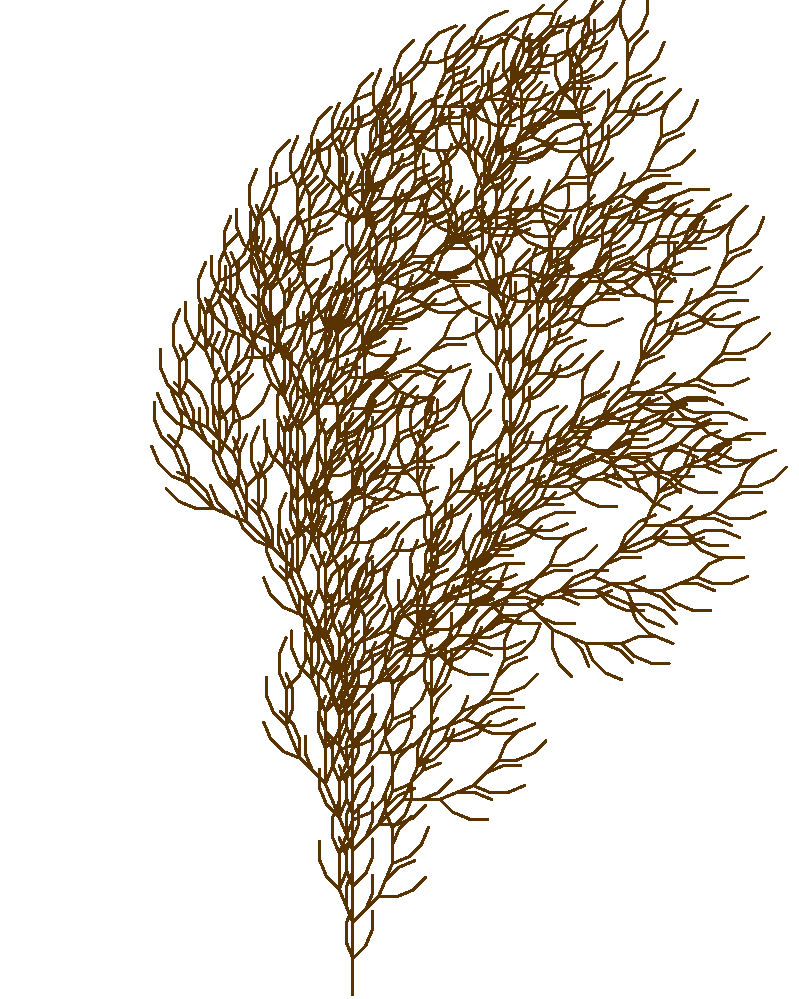
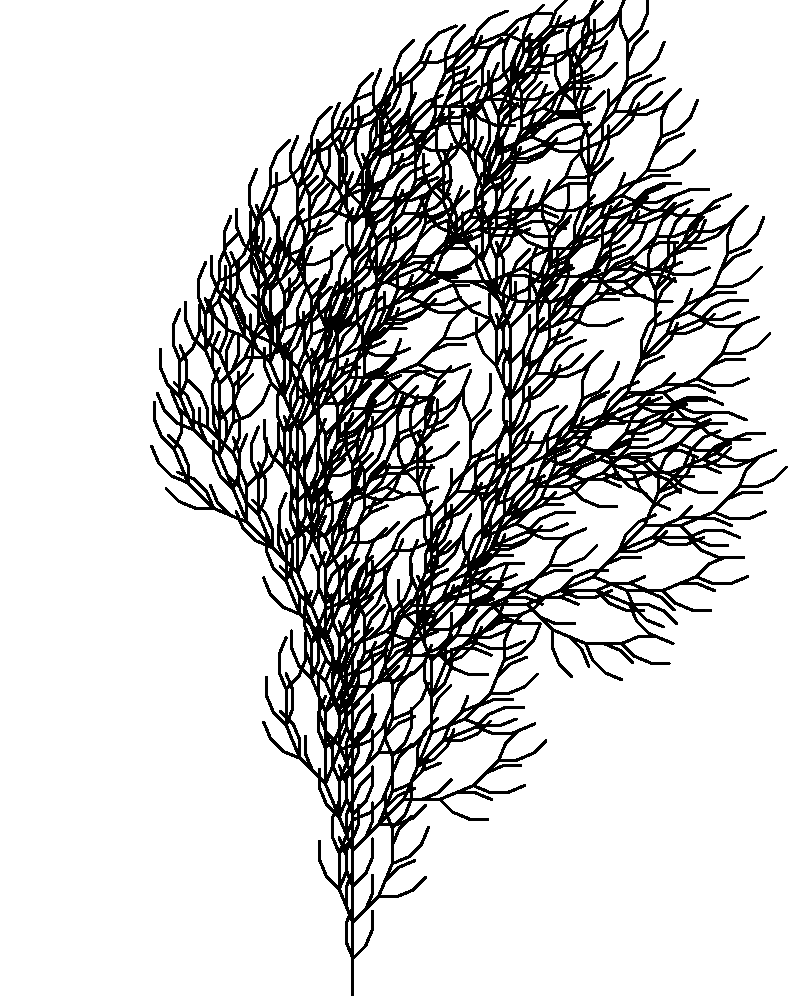
Update 2D tree color

Changed region(s): [[0.1802, 0.0, 0.9912, 0.993]]

diff --git a/tree-2d.py b/tree-2d.py
@@ -36,7 +36,7 @@ def draw_lsystem(axiom):
     t.color('green')
 
     # Pen settings
-    color = [0.35, 0.2, 0.0]
+    color = [0.0, 0.0, 0.0]
     thickness = 2
     step = 18
 
